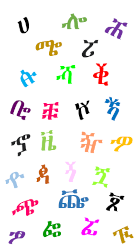
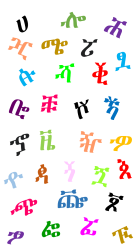
Documentation format and enhanced side image.

diff --git a/release/gff/gff_ethiopic/source/welcome.htm b/release/gff/gff_ethiopic/source/welcome.htm
@@ -23,7 +23,8 @@ table.flat caption { margin: 0.5em 0 0 0 }
   .question-answered { background: #bfffa0; font-style: italic; text-decoration: line-through }
    body { max-width: 1200px }
 
-table.kb th, table.kb td { padding: 0.3em }
+table.kb th { padding: 0.3em; }
+table.kb td { padding: 0.3em; font-family:Abyssinica SIL;}
 table.kb th:first-child { background-color: #e0dacf; }
 table.kb tr:first-child { background-color: #e0dacf; font-weight:bold; }
 table.kb tr:first-child th:first-child { background-color: #ffffff; border-left-color: #ffffff; border-top-color: #ffffff }
@@ -38,8 +39,8 @@ table.kb tr:last-child { text-align: center; background-color: #d7d0b9; font-wei
 table.kb tr:last-child th:first-child { background-color: #ffffff; border-left-color: #ffffff; border-bottom-color: #ffffff }
 dd {margin: 0 0 1em; padding: 0}
 
-table.punct th { font-weight: bold;  padding: 0.3em }
-table.punct td { font-weight: normal; padding: 0.3em }
+table.punct th { font-weight: bold;  padding: 0.3em; }
+table.punct td { font-weight: normal; padding: 0.3em; font-family:Abyssinica SIL; }
 table.punct th:first-child { background-color: #e0dacf; }
 table.punct tr:first-child { background-color: #e0dacf; }
 table.punct tr:first-child th:first-child { background-color: #ffffff; border-left-color: #ffffff; border-top-color: #ffffff }
@@ -49,8 +50,8 @@ table.punct th { text-align: center; background-color: #d7d0b9 }
 table.punct { border-bottom: hidden }
 table.punct { empty-cells: show }
 
-table.zaima th { font-weight: bold;  padding: 0.3em }
-table.zaima td { font-weight: normal; padding: 0.3em }
+table.zaima th { font-weight: bold;  padding: 0.3em}
+table.zaima td { font-weight: normal; padding: 0.3em; font-family:Abyssinica SIL;  }
 table.zaima th:first-child { background-color: #e0dacf;}
 table.zaima tr:first-child th  { background-color: #e0dacf; }
 table.zaima tr:first-child th:first-child { background-color: #ffffff; border-left-color: #ffffff; border-top-color: #ffffff }
@@ -60,7 +61,8 @@ table.zaima th { text-align: center; background-color: #d7d0b9 }
 table.zaima { border-bottom: hidden }
 table.zaima { empty-cells: show }
 
-table.gurage th, table.gurage td { padding: 0.3em }
+table.gurage th { padding: 0.3em; }
+table.gurage td { padding: 0.3em; font-family:Abyssinica SIL; }
 table.gurage td, table.kb th { border: thin solid #666; text-align: center ; padding: 0.3em }
 table.gurage { border-bottom: hidden }
 table.gurage { empty-cells: show }

diff --git a/release/gff/gff_ethiopic/source/help/gff_ethiopic.php b/release/gff/gff_ethiopic/source/help/gff_ethiopic.php
@@ -4,7 +4,7 @@
   $pagestyle = <<<END
   img.indented { text-indent: 10%}
 
-table.flat { border-spacing: 0; margin: 0.5em 0 }B
+table.flat { border-spacing: 0; margin: 0.5em 0 }
 table.flat td, table.kb th { border: thin solid #666; text-align: center ; padding: 0.3em }
 table.flat { border-bottom: hidden }
 table.flat { empty-cells: show }
@@ -20,7 +20,8 @@ table.flat caption { margin: 0.5em 0 0 0 }
   .question-answered { background: #bfffa0; font-style: italic; text-decoration: line-through }
    body { max-width: 1200px }
 
-table.kb th, table.kb td { padding: 0.3em }
+table.kb th { padding: 0.3em; }
+table.kb td { padding: 0.3em; font-family:Abyssinica SIL; }
 table.kb th:first-child { background-color: #e0dacf; }
 table.kb tr:first-child { background-color: #e0dacf; font-weight:bold; }
 table.kb tr:first-child th:first-child { background-color: #ffffff; border-left-color: #ffffff; border-top-color: #ffffff }
@@ -36,7 +37,7 @@ table.kb tr:last-child th:first-child { background-color: #ffffff; border-left-c
 dd {margin: 0 0 1em; padding: 0}
 
 table.punct th { font-weight: bold;  padding: 0.3em }
-table.punct td { font-weight: normal; padding: 0.3em }
+table.punct td { font-weight: normal; padding: 0.3em; font-family:Abyssinica SIL; }
 table.punct th:first-child { background-color: #e0dacf; }
 table.punct tr:first-child { background-color: #e0dacf; }
 table.punct tr:first-child th:first-child { background-color: #ffffff; border-left-color: #ffffff; border-top-color: #ffffff }
@@ -47,7 +48,7 @@ table.punct { border-bottom: hidden }
 table.punct { empty-cells: show }
 
 table.zaima th { font-weight: bold;  padding: 0.3em }
-table.zaima td { font-weight: normal; padding: 0.3em }
+table.zaima td { font-weight: normal; padding: 0.3em; font-family:Abyssinica SIL; }
 table.zaima th:first-child { background-color: #e0dacf;}
 table.zaima tr:first-child th  { background-color: #e0dacf; }
 table.zaima tr:first-child th:first-child { background-color: #ffffff; border-left-color: #ffffff; border-top-color: #ffffff }
@@ -57,7 +58,8 @@ table.zaima th { text-align: center; background-color: #d7d0b9 }
 table.zaima { border-bottom: hidden }
 table.zaima { empty-cells: show }
 
-table.gurage th, table.gurage td { padding: 0.3em }
+table.gurage th { padding: 0.3em }
+table.gurage td { padding: 0.3em; font-family:Abyssinica SIL; }
 table.gurage td, table.kb th { border: thin solid #666; text-align: center ; padding: 0.3em }
 table.gurage { border-bottom: hidden }
 table.gurage { empty-cells: show }
